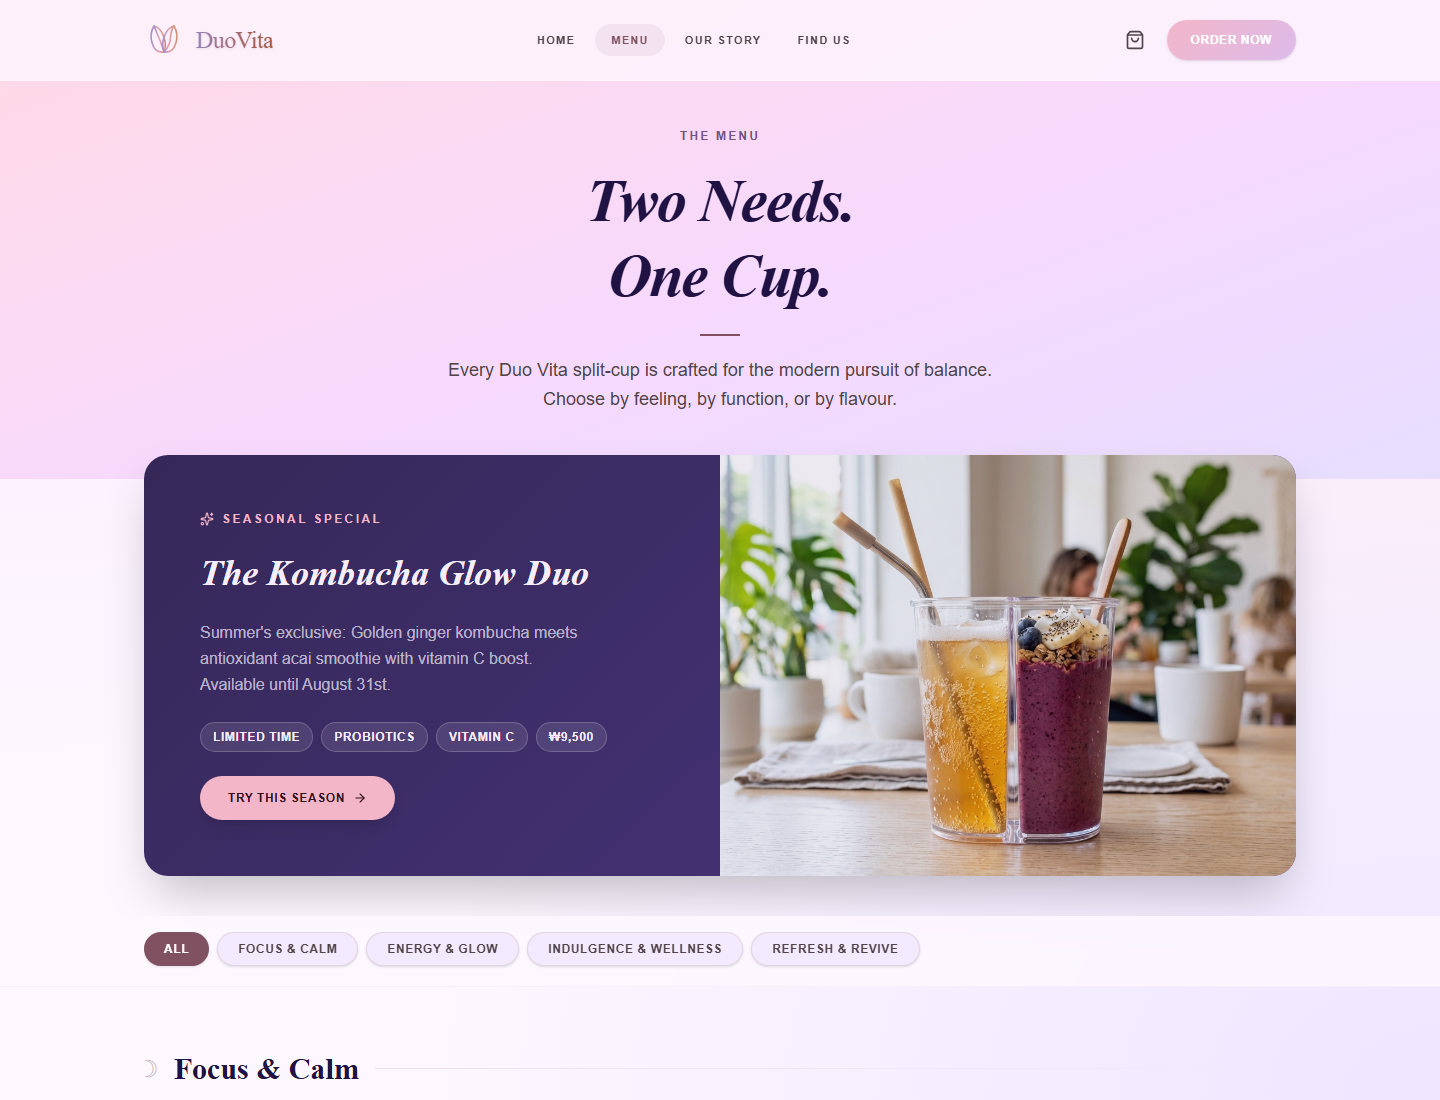
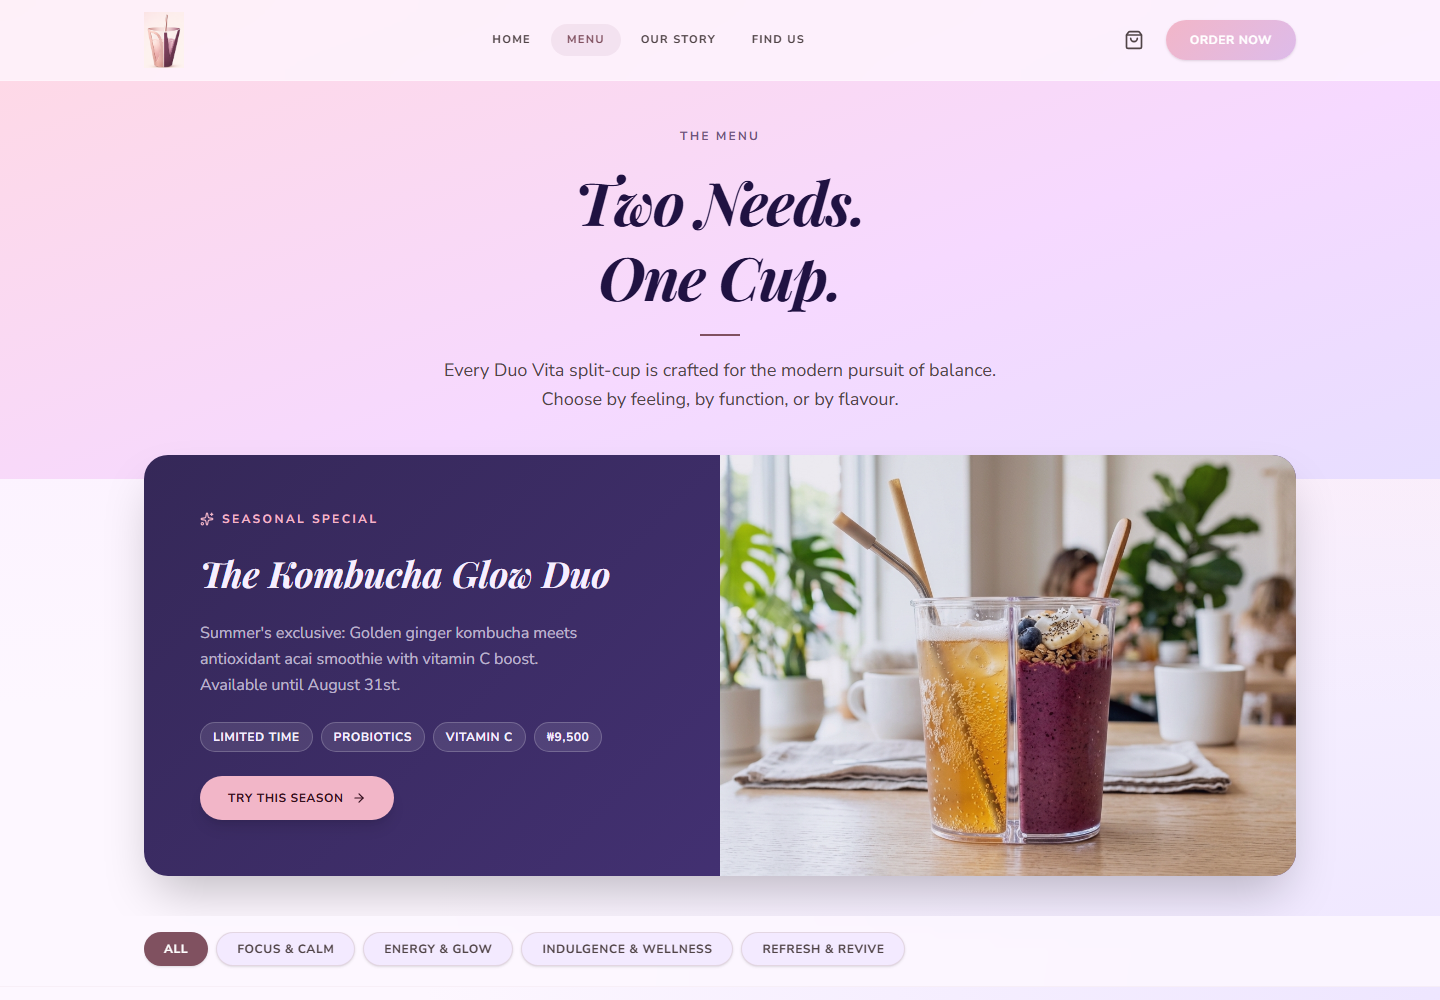
Update branding screenshots

diff --git a/src/pages/Home.tsx b/src/pages/Home.tsx
@@ -78,20 +78,20 @@ export default function Home() {
       className="flex-grow"
     >
       {/* ── HERO ─────────────────────────────────────────────── */}
-      <section className="hero-gradient min-h-[95vh] flex items-center justify-center pt-24 pb-16 px-5 md:px-16 overflow-hidden relative">
+      <section className="hero-gradient w-full max-w-full min-h-[95vh] flex items-center justify-center pt-24 pb-16 px-5 md:px-16 overflow-hidden relative">
         {/* decorative blobs */}
         <div className="absolute top-24 left-8 w-72 h-72 rounded-full bg-primary-fixed/30 blur-3xl pointer-events-none" />
         <div className="absolute bottom-16 right-8 w-80 h-80 rounded-full bg-tertiary-container/40 blur-3xl pointer-events-none" />
 
-        <div className="max-w-7xl mx-auto grid grid-cols-1 md:grid-cols-2 gap-10 items-center w-full relative z-10">
+        <div className="w-full max-w-[calc(100vw-2.5rem)] md:max-w-7xl mx-auto grid grid-cols-1 md:grid-cols-2 gap-10 items-center min-w-0 relative z-10">
           {/* Left */}
           <motion.div
             initial={{ opacity: 0, y: 36 }}
             animate={{ opacity: 1, y: 0 }}
             transition={{ duration: 0.9, delay: 0.15, ease: [0.22, 0.61, 0.36, 1] }}
-            className="space-y-8"
+            className="space-y-8 min-w-0 max-w-full"
           >
-            <div className="flex items-center gap-2">
+            <div className="flex flex-wrap items-center gap-2">
               <span className="text-primary text-lg">✦</span>
               <span className="font-sans text-xs font-bold tracking-[0.18em] uppercase text-secondary bg-secondary-fixed/60 px-4 py-1.5 rounded-full border border-white/50">
                 The Seoul Standard
@@ -103,33 +103,33 @@ export default function Home() {
               Elegance in<br />Every Sip.
             </h1>
 
-            <p className="font-sans text-lg text-on-surface-variant max-w-md leading-relaxed">
+            <p className="font-sans text-lg text-on-surface-variant max-w-full sm:max-w-md w-full leading-relaxed">
               Where high-end café culture meets functional wellness. Our signature split-cup delivers indulgence and vitality in one beautiful moment.
             </p>
 
-            <div className="flex flex-wrap gap-4 pt-2">
+            <div className="flex flex-wrap gap-3 sm:gap-4 pt-2">
               <Link
                 to="/menu"
-                className="bg-primary text-on-primary font-sans text-xs font-bold uppercase tracking-wider px-8 py-4 rounded-full shadow-lg hover:shadow-xl hover:-translate-y-1 transition-all duration-300 flex items-center gap-2"
+                className="bg-primary text-on-primary font-sans text-xs font-bold uppercase tracking-wider px-6 sm:px-8 py-4 rounded-full shadow-lg hover:shadow-xl hover:-translate-y-1 transition-all duration-300 flex items-center gap-2"
               >
                 Discover the Menu <ArrowRight size={14} />
               </Link>
               <Link
                 to="/story"
-                className="border border-outline/50 font-sans text-xs font-bold uppercase px-8 py-4 rounded-full text-on-surface hover:bg-surface-container/60 transition-all duration-300 tracking-[0.12em] backdrop-blur-sm"
+                className="border border-outline/50 font-sans text-xs font-bold uppercase px-6 sm:px-8 py-4 rounded-full text-on-surface hover:bg-surface-container/60 transition-all duration-300 tracking-[0.12em] backdrop-blur-sm"
               >
                 Our Story
               </Link>
             </div>
 
             {/* Social proof micro */}
-            <div className="flex items-center gap-3 pt-2">
+            <div className="flex flex-wrap items-center gap-x-3 gap-y-2 pt-2">
               <div className="flex -space-x-2">
                 {['#f2b6c8','#ddbbea','#cbbefd','#ffd9e3'].map((c, i) => (
                   <div key={i} className="w-8 h-8 rounded-full border-2 border-white/80" style={{ background: c }} />
                 ))}
               </div>
-              <div className="flex items-center gap-1.5">
+              <div className="flex flex-wrap items-center gap-1.5">
                 {[...Array(5)].map((_,i) => <Star key={i} size={12} className="text-primary fill-primary" />)}
                 <span className="font-sans text-xs text-on-surface-variant ml-1">4.9 · 2,400+ rituals daily</span>
               </div>

diff --git a/src/components/Navbar.tsx b/src/components/Navbar.tsx
@@ -38,7 +38,7 @@ export function Navbar() {
         : 'bg-surface/75 border-white/30'
     )}>
       <div className={cn(
-        'flex justify-between items-center w-full px-5 md:px-16 max-w-7xl mx-auto transition-all duration-300',
+        'flex justify-between items-center w-full max-w-full px-5 md:px-16 max-w-7xl mx-auto transition-all duration-300',
         scrolled ? 'h-16' : 'h-20'
       )}>
         <NavLink to="/" className="flex-shrink-0">
@@ -94,7 +94,7 @@ export function Navbar() {
 
           {/* Mobile hamburger */}
           <button
-            className="md:hidden text-on-surface p-2 rounded-full hover:bg-surface-container transition-colors"
+            className="md:hidden shrink-0 mr-1 text-on-surface p-2 rounded-full hover:bg-surface-container transition-colors"
             onClick={() => setIsOpen(!isOpen)}
             aria-label="Toggle menu"
           >

diff --git a/src/components/Layout.tsx b/src/components/Layout.tsx
@@ -8,7 +8,7 @@ import { CartDrawer } from './CartDrawer';
 export function Layout() {
   return (
     <CartProvider>
-      <div className="min-h-screen flex flex-col">
+      <div className="min-h-screen flex flex-col overflow-x-hidden">
         <Navbar />
         <CartDrawer />
         <div className="flex-grow flex flex-col">

diff --git a/src/index.css b/src/index.css
@@ -106,6 +106,21 @@
 }
 
 @layer base {
+  *,
+  *::before,
+  *::after {
+    box-sizing: border-box;
+  }
+
+  html,
+  body,
+  #root {
+    width: 100%;
+    max-width: 100%;
+    margin: 0;
+    overflow-x: hidden;
+  }
+
   body {
     @apply bg-background text-on-background font-sans antialiased;
     background-image: 

diff --git a/src/components/Logo.tsx b/src/components/Logo.tsx
@@ -1,5 +1,5 @@
 import React from 'react';
-import logo from '../assets/images/headbar-logo.png';
+import logo from '../assets/images/website-logo.png';
 
 export function Logo({className = '', variant = 'full',})
 {
